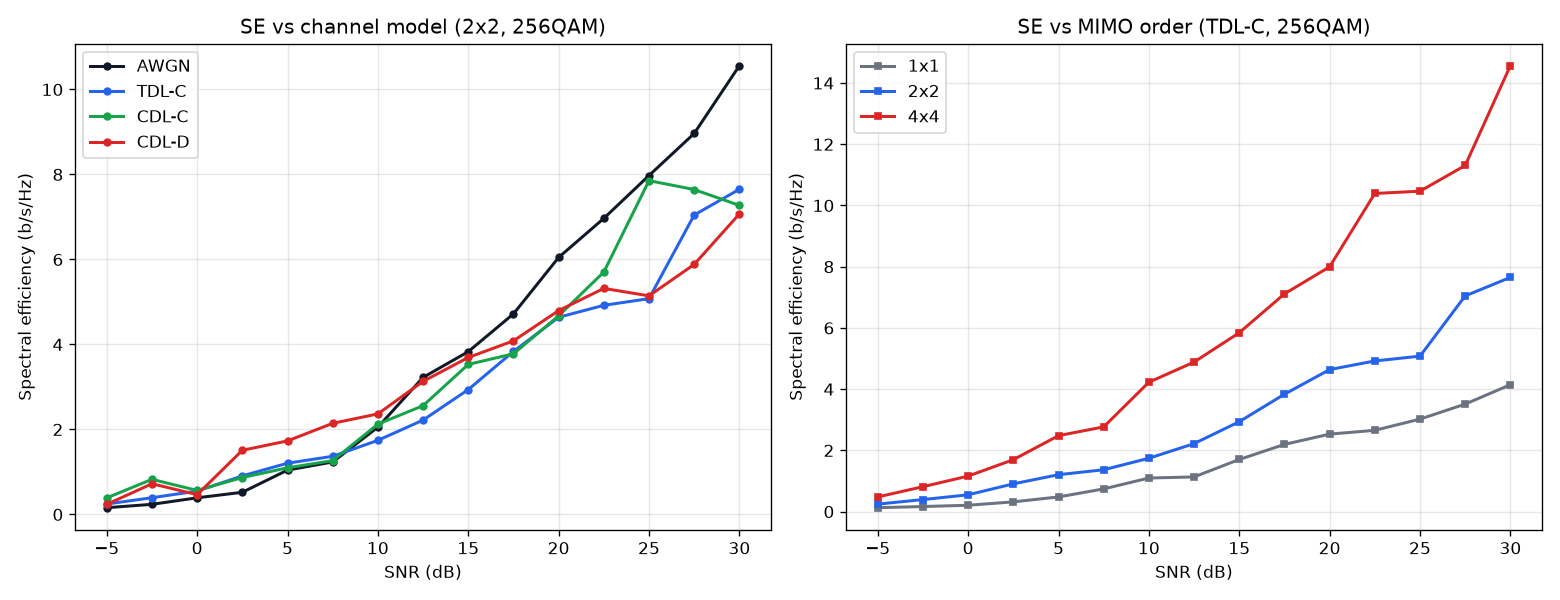
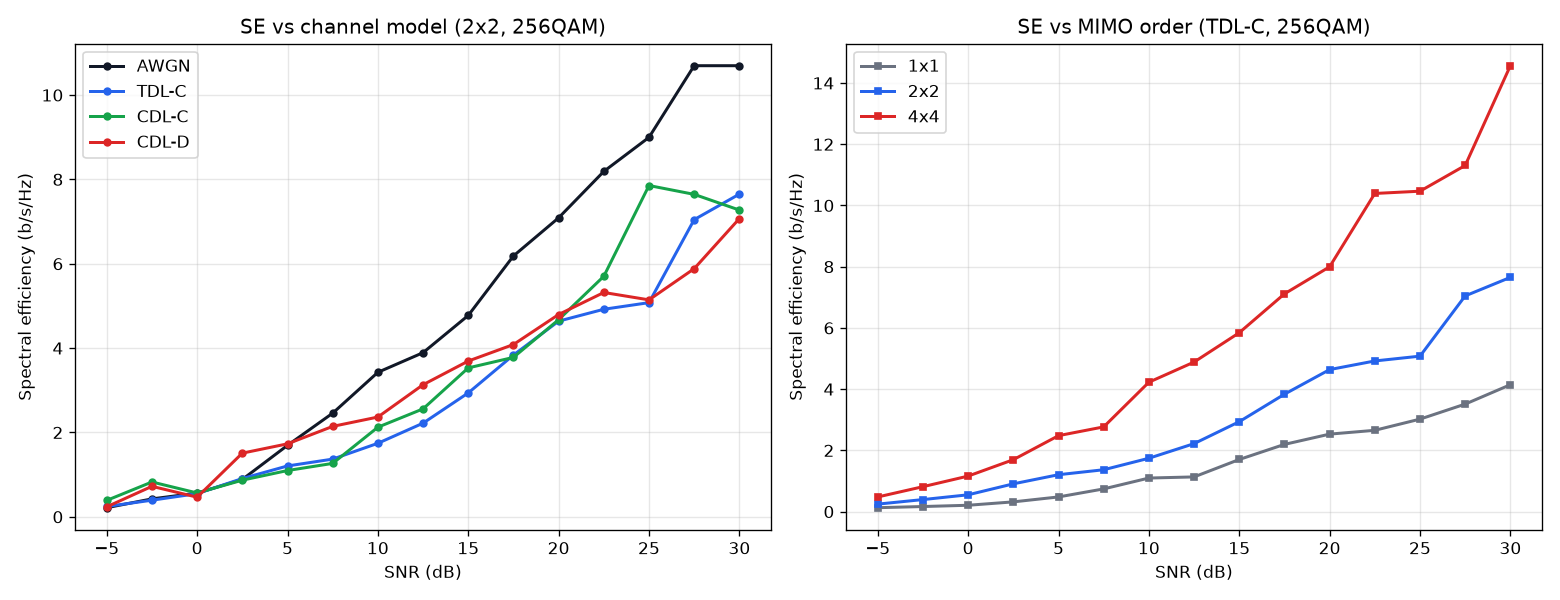
Plot array-size study as spectral efficiency; add AWGN; fix AWGN MIMO model
- awgn_frequency_response: the identity channel connected each receive
  antenna to a single transmit port, so MIMO AWGN received
  10*log10(min(Nt,Nr)) dB less signal than the fading models at the same
  SNR and showed no array gain. It is now a static flat channel with unit
  gain on every link (the fading models' normalisation) and orthogonal
  rows, so every eigenmode carries the full array gain. SISO unchanged.
- examples/array_size_throughput.py -> examples/array_size_se.py: plots
  spectral efficiency (b/s/Hz) and runs CDL-C and AWGN for 4T4R, 32T4R and
  128T4R; writes results/array_size_se.png.
- Regenerate results/compare_se.png (its 2x2 AWGN curve changes).
- tests/test_modules.py: AWGN MIMO unit link gain and equal eigen-gains.
- README: describe the AWGN MIMO definition.

Claude-Session: https://claude.ai/code/session_01QWMA1G15JsNym7MEDMSeZY

diff --git a/examples/array_size_se.py b/examples/array_size_se.py
@@ -1,0 +1,149 @@
+#!/usr/bin/env python3
+"""DL spectral efficiency vs SNR for 4T4R, 32T4R and 128T4R, CDL-C and AWGN.
+
+Runs NRDownlinkSimulator -- CSI feedback with rank adaptation (RI/PMI/CQI,
+4-slot delay), CQI + OLLA link adaptation, HARQ -- for three gNB array sizes:
+
+  * 4T   : dual-pol 1x2 panel   (4 ports)
+  * 32T  : dual-pol 2x8 panel   (32 ports)
+  * 128T : dual-pol 4x16 panel  (128 ports)
+
+UE 4R (dual-pol 1x2), up to 4 layers (one codeword); 100 MHz carrier (273 PRB
+@ 30 kHz), SVD precoding from noisy estimated CSI, every slot downlink.
+
+Channels:
+  * CDL-C : DS 30 ns, 3 km/h at 3.5 GHz, omni elements.
+  * AWGN  : static flat channel, unit gain on every tx-rx link with orthogonal
+            rows (see awgn_frequency_response): no fading, no angular
+            structure, but each of the 4 eigenmodes keeps the full array
+            gain (4, 32 or 128).
+
+Spectral efficiency = delivered bits / (time x allocated bandwidth), b/s/Hz.
+Each CDL-C point averages N_DROPS independent drops; drop d uses the same
+channel seed at every SNR and array size, so the curves are a paired
+comparison. Writes results/array_size_se.png.
+"""
+import os, sys
+os.environ.setdefault("OMP_NUM_THREADS", "1")          # one BLAS thread per worker
+os.environ.setdefault("OPENBLAS_NUM_THREADS", "1")
+from concurrent.futures import ProcessPoolExecutor
+import numpy as np
+
+sys.path.insert(0, os.path.dirname(os.path.dirname(os.path.abspath(__file__))))
+from nrdlsim.config import SimConfig
+from nrdlsim.link_simulator import NRDownlinkSimulator
+from nrdlsim import tbs as tbs_mod, mcs_tables
+
+ARRAYS = {"4T4R": (4, (1, 2)), "32T4R": (32, (2, 8)), "128T4R": (128, (4, 16))}
+CHANNELS = ("CDL-C", "AWGN")
+SNRS = [0, 4, 8, 12, 16, 20, 24]
+N_DROPS, N_SLOTS, N_RB = 8, 150, 273
+
+
+def make_cfg(channel, name, drop):
+    n_tx, layout = ARRAYS[name]
+    c = SimConfig(num_slots=N_SLOTS, seed=1000 + drop)
+    c.carrier.n_size_grid = c.pdsch.num_rb = N_RB
+    c.pdsch.num_layers = 4
+    c.channel.model, c.channel.delay_spread_ns = channel, 30.0
+    c.channel.ue_speed_kmh, c.channel.carrier_freq_hz = 3.0, 3.5e9
+    a = c.antenna
+    a.n_tx, a.n_rx, a.tx_pol, a.rx_pol = n_tx, 4, 2, 2
+    a.tx_layout, a.rx_layout = layout, (1, 2)
+    return c
+
+
+def work(task):
+    channel, name, snr, drop = task
+    r = NRDownlinkSimulator(make_cfg(channel, name, drop)).run_point(float(snr), 0)
+    return channel, name, snr, r
+
+
+def se_ceiling():
+    """SE of 4 layers at the top MCS of table 2 (256QAM, MCS 27)."""
+    top = mcs_tables.get_mcs(mcs_tables.num_mcs(2) - 1, 2)
+    tb = tbs_mod.compute_tbs(tbs_mod.re_per_rb(13, 24, 0), N_RB, top.modulation_order,
+                             top.target_code_rate, 4)
+    return tb / 0.5e-3 / (N_RB * 12 * 30e3)
+
+
+def main():
+    tasks = [(ch, n, s, d) for ch in CHANNELS for n in ARRAYS for s in SNRS
+             for d in range(N_DROPS if ch != "AWGN" else 2)]
+    with ProcessPoolExecutor(max_workers=os.cpu_count()) as ex:
+        out = list(ex.map(work, tasks, chunksize=2))
+    agg = {}
+    for channel, name, snr, r in out:
+        agg.setdefault((channel, name, snr), []).append(r)
+
+    print(f"{N_RB} PRB ({N_RB * 12 * 30e-3:.1f} MHz), 4R UE, {N_SLOTS} slots per run; "
+          f"CDL-C: {N_DROPS} drops per point\n")
+    print(f"{'channel':7} {'array':7} {'SNR':>4} | {'SE b/s/Hz':>9} | {'rank':>4} "
+          f"{'MCS':>5} {'BLER1st':>7} {'resBLER':>7}")
+    res = {}
+    for channel in CHANNELS:
+        for name in ARRAYS:
+            for snr in SNRS:
+                rs = agg[(channel, name, snr)]
+                se = np.mean([r.spectral_efficiency for r in rs])
+                rk = np.mean([r.avg_rank for r in rs])
+                res[(channel, name, snr)] = (se, rk)
+                print(f"{channel:7} {name:7} {snr:4d} | {se:9.2f} | {rk:4.2f} "
+                      f"{np.mean([r.avg_mcs for r in rs]):5.1f} "
+                      f"{np.mean([r.bler for r in rs]):7.3f} "
+                      f"{np.mean([r.residual_bler for r in rs]):7.3f}")
+            print()
+    plot(res)
+
+
+def plot(res):
+    import matplotlib
+    matplotlib.use("Agg")
+    import matplotlib.pyplot as plt
+    from matplotlib.lines import Line2D
+    # colour = array (reference palette, first three slots, validated
+    # all-pairs; distinct markers as secondary encoding); line style = channel
+    style = {"4T4R": ("#2a78d6", "o"), "32T4R": ("#eb6834", "D"),
+             "128T4R": ("#1baf7a", "s")}
+    dash = {"CDL-C": "-", "AWGN": "--"}
+    ink, ink2, grid = "#0b0b0b", "#52514e", "#e4e3df"
+    fig, (a1, a2) = plt.subplots(1, 2, figsize=(14, 5.2))
+    for ax in (a1, a2):
+        ax.grid(True, color=grid, lw=0.8); ax.set_axisbelow(True)
+        for s in ("top", "right"):
+            ax.spines[s].set_visible(False)
+        ax.tick_params(colors=ink2, labelsize=9)
+        ax.set_xticks(SNRS); ax.set_xlabel("SNR (dB)", color=ink2)
+    for channel in CHANNELS:
+        for name, (col, mk) in style.items():
+            se = [res[(channel, name, s)][0] for s in SNRS]
+            rk = [res[(channel, name, s)][1] for s in SNRS]
+            kw = dict(color=col, marker=mk, ls=dash[channel], lw=2, ms=7,
+                      mfc=col if channel == "CDL-C" else "white", mew=1.8)
+            a1.plot(SNRS, se, **kw)
+            a2.plot(SNRS, rk, **kw)
+    cap = se_ceiling()
+    a1.axhline(cap, ls=":", lw=1, color=ink2)
+    a1.text(SNRS[0], cap, f"  4 layers x 256QAM (MCS 27) ceiling: {cap:.2f} b/s/Hz",
+            va="bottom", fontsize=9, color=ink2)
+    a1.set_ylim(0, cap * 1.08)
+    a1.set_ylabel("spectral efficiency (b/s/Hz)", color=ink2)
+    a1.set_title("Spectral efficiency vs SNR", color=ink)
+    a2.set_ylim(0.5, 4.3)
+    a2.set_ylabel("average transmission rank", color=ink2)
+    a2.set_title("Rank chosen by rank adaptation", color=ink)
+    handles = [Line2D([], [], color=c, marker=m, lw=2, ms=7, label=n)
+               for n, (c, m) in style.items()]
+    handles += [Line2D([], [], color=ink2, ls=dash[ch], lw=2, label=ch)
+                for ch in CHANNELS]
+    a1.legend(handles=handles, frameon=False, loc="lower right", fontsize=9, ncol=2)
+    fig.suptitle("4T4R vs 32T4R vs 128T4R, CDL-C (solid) and AWGN (dashed) — "
+                 "4R UE, 100 MHz, SVD precoding, CQI/OLLA link adaptation", color=ink)
+    fig.tight_layout()
+    os.makedirs("results", exist_ok=True)
+    fig.savefig("results/array_size_se.png", dpi=120, facecolor="#fcfcfb")
+    print("saved results/array_size_se.png")
+
+
+if __name__ == "__main__":
+    main()

diff --git a/tests/test_modules.py b/tests/test_modules.py
@@ -40,6 +40,19 @@ def test_mcs_and_tbs():
     print(f"MCS/TBS: OK (TBS={tb} bits)")
 
 
+def test_awgn_mimo_channel():
+    """AWGN MIMO: unit gain on every link (same normalisation as the fading
+    models), orthogonal rows -> every eigenmode carries the full array gain."""
+    from nrdlsim.channel_models import awgn_frequency_response
+    assert np.allclose(awgn_frequency_response(5, 1, 1), 1.0)       # SISO
+    for nt, nr in ((2, 2), (4, 4), (32, 4), (128, 4), (2, 4)):
+        H = awgn_frequency_response(3, nt, nr)
+        assert H.shape == (3, nr, nt) and np.allclose(np.abs(H), 1.0)
+        g = np.linalg.svd(H[0], compute_uv=False) ** 2
+        assert np.allclose(g, max(nt, nr)), (nt, nr, g)
+    print("AWGN MIMO channel: unit link gain, equal eigen-gains: OK")
+
+
 def test_tdl_power_normalised():
     ch = TDLChannel("TDL-C", 100e0, 50.0, n_tx=4, n_rx=2,
                     rng=np.random.default_rng(1))
@@ -221,6 +234,7 @@ if __name__ == "__main__":
     test_constellation_unit_energy()
     test_modulation_roundtrip_no_noise()
     test_mcs_and_tbs()
+    test_awgn_mimo_channel()
     test_tdl_power_normalised()
     test_cdl_channel()
     test_cdl_dualpol_upa()

diff --git a/nrdlsim/channel_models.py b/nrdlsim/channel_models.py
@@ -168,12 +168,20 @@ class TDLChannel:
 
 
 def awgn_frequency_response(n_freq: int, n_tx: int, n_rx: int) -> np.ndarray:
-    """Flat identity-like channel for the AWGN reference model."""
-    h = np.zeros((n_freq, n_rx, n_tx), dtype=complex)
-    d = min(n_tx, n_rx)
-    for i in range(d):
-        h[:, i, i] = 1.0
-    return h
+    """Static, frequency-flat MIMO channel for the AWGN reference model.
+
+    Every tx-rx link has unit gain (|H_us| = 1), the same per-link power
+    normalisation as the fading models (E|H_us|^2 = 1), and the rows (or
+    columns, if n_rx > n_tx) are orthogonal: H is the first n_rx rows / n_tx
+    columns of an N-point DFT matrix, N = max(n_tx, n_rx).  So each of the
+    min(n_tx, n_rx) eigenmodes has gain N: no fading and no angular structure,
+    but the full array gain.  SISO reduces to H = 1.
+    """
+    n = max(n_tx, n_rx)
+    u = np.arange(n_rx)[:, None]
+    s = np.arange(n_tx)[None, :]
+    h = np.exp(-2j * np.pi * u * s / n)
+    return np.broadcast_to(h, (n_freq, n_rx, n_tx)).copy()
 
 
 # ===========================================================================

diff --git a/README.md b/README.md
@@ -177,6 +177,13 @@ Observed behaviour (all physically consistent):
 
 * SE rises with SNR and saturates near the rank·log₂(M)·R ceiling.
 * AWGN > TDL fading; SE scales with MIMO rank (1×1 ≈ 4, 2×2 ≈ 8, 4×4 ≈ 16 b/s/Hz).
+* **AWGN with multiple antennas** is a static, frequency-flat channel. Every
+  transmit–receive link has unit gain, the same per-link normalisation as the
+  fading models, and the rows are orthogonal (a truncated DFT matrix). So each
+  of the min(N_tx, N_rx) eigenmodes carries the full array gain max(N_tx, N_rx),
+  with no fading and no angular structure. `examples/array_size_se.py` compares
+  4T4R / 32T4R / 128T4R under AWGN and CDL-C
+  (`results/array_size_se.png`).
 * Rank adaptation uses rank 1 at low SNR and switches to rank 2 as SNR rises.
 * `BLER1st` is the first-transmission BLER, which OLLA drives to the 0.1
   target. In a 200-slot run it still includes OLLA's settling period (≈0.13);
